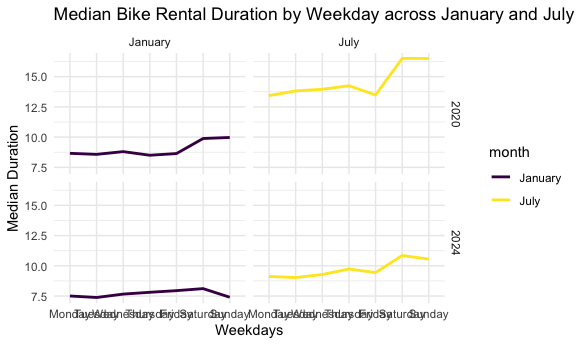
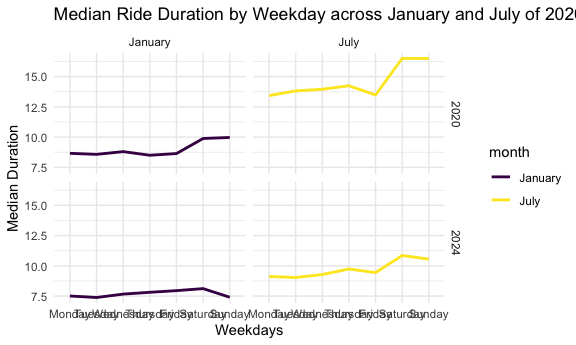
Comments

Changed region(s): [[0.1875, 0.0, 1.0, 0.058]]

diff --git a/P8105_hw3_ww2745.md b/P8105_hw3_ww2745.md
@@ -357,7 +357,7 @@ citi_df |>
   geom_line(size = 1) +  
   facet_grid(year ~ month) +
   labs(
-    title = "Median Bike Rental Duration by Weekday across January and July of 2020 and 2024", 
+    title = "Median Ride Duration by Weekday across January and July of 2020 and 2024", 
     x = "Weekdays", 
     y = "Median Duration") +
   theme_minimal()
